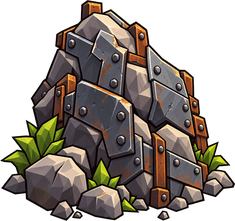
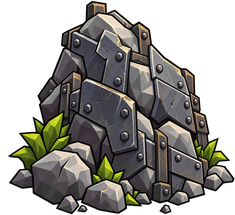
Actualizacion 30/10/2026  0:18:57,13

diff --git a/js/version.js b/js/version.js
@@ -22,6 +22,7 @@ const GG_CHANGELOG = [
     "Opciones gráficas reordenadas: modo rendimiento, sombras, efectos ambientales, vegetación, niebla, resolución adaptativa y mostrar FPS",
     "Efectos ambientales: cada escenario tiene su ambiente sutil (MushBoom: tono verdoso, rayos de luz y polen; Rock'n Troll: tono rojizo, ceniza, humo y brasas del volcán; HurryCrane: degradado amarillo/celeste que se desplaza con puntitos de viento; WallForge: tono de acero y pequeños destellos suaves sobre el suelo metálico, las menas, los árboles y las rocas). Se activan o desactivan en Opciones gráficas y el modo rendimiento los apaga solos",
     "Fortaleza WallForge: rocas, árboles y menas de metal propios, reforzados con placas de hierro y refuerzos de madera",
+    "Fortaleza WallForge: nueva roca reforzada con placas de acero y remaches",
     "Fortaleza WallForge: ambiente de forja, con tono cálido y oscuro sobre el tablero, charcos de luz naranja bajo el altar y los obeliscos y brasas y humo planos (las brasas solo se ven donde hay visión y se apagan con el modo rendimiento); se adapta solo a cualquier tamaño de ventana",
     "Reliquia de WallForge: la IA ahora juega la Reliquia (rompe las cadenas del altar lanzando un gnomo, la coge, recoge páginas, la entrega en su obelisco y persigue al portador rival)",
     "Reliquia de WallForge: las páginas son más numerosas y crecen con el tamaño del mapa (el doble de ese número en total), repartidas con separación y nunca junto a un obelisco",

diff --git a/index.html b/index.html
@@ -143,10 +143,10 @@
   </main>
 
   <script src="js/rand.js?v=1791415445"></script>
-  <script src="js/i18n.js?v=1793807200"></script>
+  <script src="js/i18n.js?v=1793807400"></script>
   <script src="js/banners.js?v=1793500710"></script>
   <script src="js/teams.js?v=1791042260"></script>
-  <script src="js/translate.js?v=1793600100"></script>
+  <script src="js/translate.js?v=1793807400"></script>
   <script src="js/sfx.js?v=1793700400"></script>
   <script src="js/music.js?v=1793700000"></script>
   <script src="js/savegame.js?v=1791042260"></script>
@@ -196,7 +196,7 @@
   <script src="js/shops.js?v=1793000015"></script>
   <script src="js/oracle.js?v=1793000040"></script>
   <script src="js/relics.js?v=1791220000"></script>
-  <script src="js/resources.js?v=1793807200"></script>
+  <script src="js/resources.js?v=1793807400"></script>
   <script src="js/drums.js?v=1793500570"></script>
   <script src="js/bumpers.js?v=1793500570"></script>
   <script src="js/egg.js?v=1793300026"></script>

diff --git a/js/resources.js b/js/resources.js
@@ -341,10 +341,11 @@ const Resources = {
 
     // Etiqueta con el nombre del recurso (Árbol / Roca / Metal): pequeña, plana y neutra, justo encima del sprite;
     // solo se ve al pasar el puntero por encima (todo en CSS, ver .resource-node__label en style.css).
-    if (kind !== "cofre" && typeof I18N !== "undefined") {
+    // El texto va en español; el traductor del juego (js/translate.js, EN_DICT) lo pasa a inglés y lo devuelve al cambiar de idioma.
+    if (kind !== "cofre") {
       const labelEl = document.createElement("div");
       labelEl.className = "resource-node__label";
-      labelEl.textContent = I18N.t("resource_label_" + kind);
+      labelEl.textContent = { pino: "Árbol", roca: "Roca", mena: "Metal" }[kind] || "";
       el.appendChild(labelEl);
     }
 

diff --git a/js/i18n.js b/js/i18n.js
@@ -104,9 +104,6 @@ const STRINGS = {
     settings_fog: "Niebla de alta calidad",
     settings_vegetation: "Vegetación",
     settings_ambient: "Efectos ambientales",
-    resource_label_pino: "Árbol",
-    resource_label_roca: "Roca",
-    resource_label_mena: "Metal",
     settings_adaptive: "Resolución adaptativa",
     settings_perf: "Modo rendimiento",
     settings_fps: "Mostrar FPS",
@@ -304,9 +301,6 @@ const STRINGS = {
     settings_fog: "High-quality fog",
     settings_vegetation: "Vegetation",
     settings_ambient: "Ambient effects",
-    resource_label_pino: "Tree",
-    resource_label_roca: "Rock",
-    resource_label_mena: "Metal",
     settings_adaptive: "Adaptive resolution",
     settings_perf: "Performance mode",
     settings_fps: "Show FPS",

diff --git a/js/translate.js b/js/translate.js
@@ -159,6 +159,7 @@ const EN_DICT = {
 "¡ALERTA! ¡Se acerca una plaga Gnoma!": "ALERT! A Gnome plague is coming!",
 "Los gnomos se están escondiendo…": "The gnomes are hiding…",
 "Roca": "Rock",
+"Árbol": "Tree",
 "Pino": "Pine",
 "Mena de Hierro": "Iron Ore",
 "Madera": "Wood",
